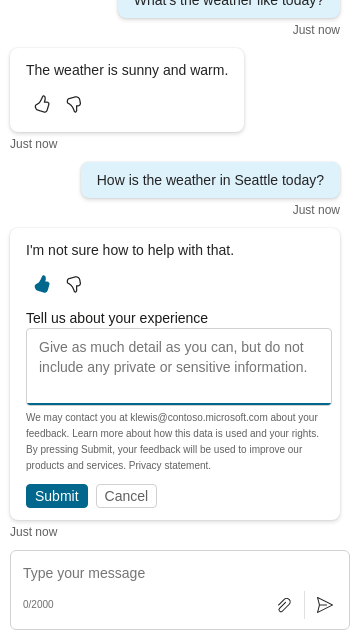
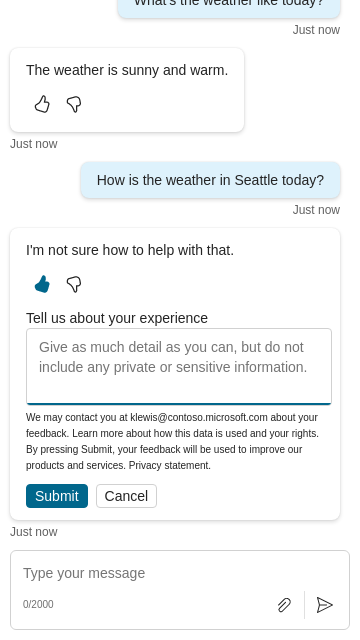
add dark

Changed region(s): [[0.0611, 0.625, 0.8861, 0.7812]]

diff --git a/__tests__/html2/fluentTheme/defaultFeedback.activity.dark.html b/__tests__/html2/fluentTheme/defaultFeedback.activity.dark.html
@@ -1,0 +1,168 @@
+<!doctype html>
+<html lang="en-US">
+  <head>
+    <link href="/assets/index.css" rel="stylesheet" type="text/css" />
+    <script crossorigin="anonymous" src="https://unpkg.com/@babel/standalone@7.8.7/babel.min.js"></script>
+    <script crossorigin="anonymous" src="/test-harness.js"></script>
+    <script crossorigin="anonymous" src="/test-page-object.js"></script>
+    <script crossorigin="anonymous" src="/__dist__/fluent-bundle.production.min.js"></script>
+    <script crossorigin="anonymous" src="/__dist__/webchat-es5.js"></script>
+    <script crossorigin="anonymous" src="/__dist__/botframework-webchat-fluent-theme.production.min.js"></script>
+    <style type="text/css">
+      .fluent-provider {
+        height: 100%;
+      }
+    </style>
+  </head>
+
+  <body>
+    <main id="webchat"></main>
+    <script type="text/babel">
+      run(async function () {
+        const {
+          Fluent: { FluentProvider, createDarkTheme },
+          React,
+          ReactDOMClient: { createRoot },
+          WebChat: { FluentThemeProvider, ReactWebChat }
+        } = window; // Imports in UMD fashion.
+
+        const { directLine, store } = testHelpers.createDirectLineEmulator();
+
+        await host.sendDevToolsCommand('Emulation.setEmulatedMedia', {
+          features: [
+            { name: 'prefers-reduced-motion', value: 'reduce' },
+            { name: 'prefers-color-scheme', value: 'dark' }
+          ]
+        });
+
+        const root = createRoot(document.getElementById('webchat'));
+
+        function renderWebChat(uiState) {
+          const theme = {
+            ...createDarkTheme({
+              10: '#12174c',
+              20: '#1a1f5b',
+              30: '#21276a',
+              40: '#293079',
+              50: '#303788',
+              60: '#384097',
+              70: '#4049a7',
+              80: '#151e80',
+              90: '#4f59c5',
+              100: '#5661d4',
+              110: '#5e69e3',
+              120: '#7982e8',
+              130: '#949bec',
+              140: '#afb5f1',
+              150: '#c9cdf6',
+              160: '#e4e6fa'
+            }),
+            colorNeutralBackground1Disabled: '#101010',
+            colorNeutralBackground1Hover: '#101010',
+            colorNeutralForeground5: '#424242'
+          };
+
+          root.render(
+            <FluentProvider className="fluent-provider" theme={theme}>
+              <FluentThemeProvider variant="fluent">
+                <ReactWebChat directLine={directLine} store={store} uiState={uiState} />
+              </FluentThemeProvider>
+            </FluentProvider>
+          );
+        }
+
+        renderWebChat();
+
+        await pageConditions.uiConnected();
+
+        await directLine.emulateIncomingActivity({
+          type: 'message',
+          id: 'a-00000',
+          timestamp: 0,
+          text: 'This is a test message to show feedback buttons',
+          from: {
+            role: 'bot'
+          },
+          locale: 'en-US',
+          entities: [],
+          channelData: {
+            feedbackLoop: {
+              type: 'default',
+              disclaimer: 'This is a test disclaimer message'
+            }
+          }
+        });
+
+        await pageConditions.numActivitiesShown(1);
+
+        pageElements.byTestId('send box text area').focus();
+        await host.sendShiftTab(2);
+
+        await host.sendKeys('ENTER');
+        await host.sendKeys('ENTER');
+
+        await host.snapshot('local');
+
+        // Dismiss like button
+        await host.sendShiftTab(2);
+        await host.sendKeys('ENTER');
+
+        await host.snapshot('local');
+
+        // Click like button
+        await host.sendKeys('ENTER');
+
+        await pageConditions.became(
+          'feedback form is open',
+          () => document.activeElement === pageElements.byTestId('feedback sendbox'),
+          1000
+        );
+
+        // Go to cancel button
+        await host.sendTab(2);
+        await host.sendKeys('ENTER');
+
+        await host.snapshot('local');
+
+        pageElements.byTestId('send box text area').focus();
+        await host.sendShiftTab(2);
+
+        await host.sendKeys('ENTER');
+        // Send dislike
+        await host.sendTab(1);
+        await host.sendKeys('ENTER');
+
+        await pageConditions.became(
+          'feedback form is open',
+          () => document.activeElement === pageElements.byTestId('feedback sendbox'),
+          1000
+        );
+
+        await host.sendKeys('Test feedback');
+
+        await host.snapshot('local');
+
+        const { activity } = await directLine.actPostActivity(async () => {
+          await host.sendTab(1);
+          await host.sendKeys('ENTER');
+        });
+
+        expect(activity).toEqual(
+          expect.objectContaining({
+            type: 'invoke',
+            name: 'message/submitAction',
+            value: {
+              actionName: 'feedback',
+              actionValue: {
+                reaction: 'dislike',
+                feedback: {
+                  feedbackText: 'Test feedback'
+                }
+              }
+            }
+          })
+        );
+      });
+    </script>
+  </body>
+</html>

diff --git a/packages/fluent-theme/src/components/theme/Theme.module.css b/packages/fluent-theme/src/components/theme/Theme.module.css
@@ -627,7 +627,7 @@
 /* Feedback Form */
 :global(.webchat-fluent).theme :global(.webchat__feedback-form__body1) {
   font-family: var(--webchat-fontFamilyBase);
-  color: var(--webchat-colorGray200);
+  color: var(--webchat-colorNeutralForeground1);
   font-size: var(--webchat-fontSizeBase300);
   font-weight: var(--webchat-fontWeightRegular);
   line-height: var(--webchat-lineHeightBase300);
@@ -635,7 +635,7 @@
 
 :global(.webchat-fluent).theme :global(.webchat__feedback-form__caption1) {
   font-family: var(--webchat-fontFamilyBase);
-  color: var(--webchat-colorNeutralForeground3);
+  color: var(--webchat-colorNeutralForeground1);
   font-size: var(--webchat-fontSizeBase100);
   font-weight: var(--webchat-fontWeightRegular);
   line-height: var(--webchat-lineHeightBase200);
@@ -645,7 +645,7 @@
   background-color: var(--webchat-colorBrandForeground1);
   border: var(--webchat-strokeWidthThin) solid var(--webchat-colorBrandForeground1);
   border-radius: var(--webchat-borderRadiusMedium);
-  color: var(--webchat-colorNeutralBackground1);
+  color: #ffffff; /* Always white in dark and light mode */
   cursor: pointer;
   font-family: var(--webchat-fontFamilyBase);
   font-size: var(--webchat-fontSizeBase300);
@@ -671,7 +671,7 @@
   background-color: var(--webchat-colorNeutralBackground1);
   border: var(--webchat-strokeWidthThin) solid var(--webchat-colorNeutralStroke1);
   border-radius: var(--webchat-borderRadiusMedium);
-  color: var(--webchat-colorNeutralForeground3);
+  color: var(--webchat-colorNeutralForeground1);
   cursor: pointer;
   font-family: var(--webchat-fontFamilyBase);
   font-size: var(--webchat-fontSizeBase300);
